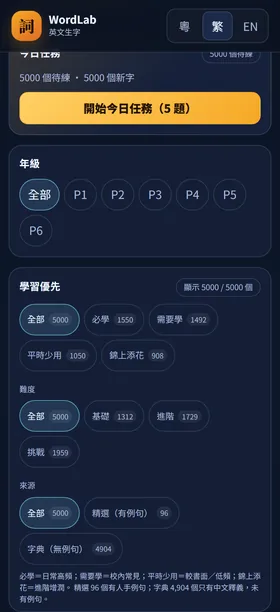
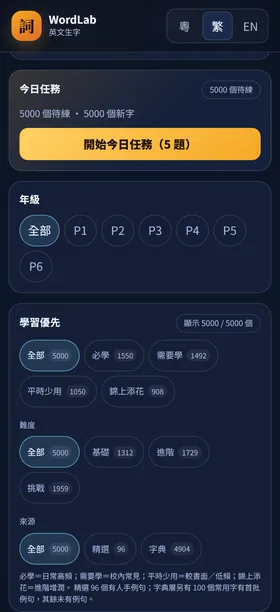
Update hub landing page

diff --git a/wordlab/examples-pack1.js b/wordlab/examples-pack1.js
@@ -1,0 +1,102 @@
+window.WORDLAB_EXAMPLES = {
+  "student": { "exEn": "The student reads a book.", "exZh": "這個學生正在看書。", "source": "WordLab" },
+  "country": { "exEn": "Japan is a country in Asia.", "exZh": "日本是亞洲的一個國家。", "source": "WordLab" },
+  "help": { "exEn": "I help my mother at home.", "exZh": "我在家幫媽媽。", "source": "WordLab" },
+  "talk": { "exEn": "We talk with our friends.", "exZh": "我們和朋友談話。", "source": "WordLab" },
+  "problem": { "exEn": "We can solve this problem together.", "exZh": "我們可以一起解決這個問題。", "source": "WordLab" },
+  "start": { "exEn": "We start class at nine.", "exZh": "我們九點開始上課。", "source": "WordLab" },
+  "hand": { "exEn": "Raise your hand to answer.", "exZh": "舉手回答。", "source": "WordLab" },
+  "place": { "exEn": "This is a quiet place to read.", "exZh": "這是一個安靜看書的地方。", "source": "WordLab" },
+  "week": { "exEn": "We have a test next week.", "exZh": "我們下星期有測驗。", "source": "WordLab" },
+  "company": { "exEn": "My father works for a company.", "exZh": "我爸爸在一間公司工作。", "source": "WordLab" },
+  "system": { "exEn": "The school has a computer system.", "exZh": "學校有一個電腦系統。", "source": "WordLab" },
+  "question": { "exEn": "May I ask a question?", "exZh": "我可以問一個問題嗎？", "source": "WordLab" },
+  "play": { "exEn": "The children play in the park.", "exZh": "孩子們在公園玩耍。", "source": "WordLab" },
+  "government": { "exEn": "The government builds public parks.", "exZh": "政府興建公共公園。", "source": "WordLab" },
+  "night": { "exEn": "The stars shine at night.", "exZh": "星星在晚上閃耀。", "source": "WordLab" },
+  "point": { "exEn": "This point is important.", "exZh": "這一點很重要。", "source": "WordLab" },
+  "home": { "exEn": "We go home after school.", "exZh": "我們放學後回家。", "source": "WordLab" },
+  "room": { "exEn": "My room is clean and bright.", "exZh": "我的房間又乾淨又明亮。", "source": "WordLab" },
+  "write": { "exEn": "Please write your name here.", "exZh": "請在這裡寫上你的名字。", "source": "WordLab" },
+  "money": { "exEn": "I save my money in a bank.", "exZh": "我把錢存在銀行。", "source": "WordLab" },
+  "story": { "exEn": "Grandpa tells us a story.", "exZh": "爺爺講故事給我們聽。", "source": "WordLab" },
+  "young": { "exEn": "The young boy is reading.", "exZh": "那個小男孩正在看書。", "source": "WordLab" },
+  "month": { "exEn": "We visit Grandma every month.", "exZh": "我們每個月都去探望奶奶。", "source": "WordLab" },
+  "eye": { "exEn": "She has something in her eye.", "exZh": "她的眼睛裡有東西。", "source": "WordLab" },
+  "job": { "exEn": "My mother has a new job.", "exZh": "我媽媽有一份新工作。", "source": "WordLab" },
+  "word": { "exEn": "I do not know this word.", "exZh": "我不認識這個詞。", "source": "WordLab" },
+  "business": { "exEn": "Her family runs a small business.", "exZh": "她的家人經營一間小生意。", "source": "WordLab" },
+  "side": { "exEn": "Walk on the left side of the road.", "exZh": "走在馬路的左邊。", "source": "WordLab" },
+  "head": { "exEn": "Put the hat on your head.", "exZh": "把帽子戴在頭上。", "source": "WordLab" },
+  "house": { "exEn": "Their house has a red roof.", "exZh": "他們的房子有一個紅色屋頂。", "source": "WordLab" },
+  "service": { "exEn": "The bus service is good.", "exZh": "巴士服務很好。", "source": "WordLab" },
+  "hour": { "exEn": "The lesson lasts one hour.", "exZh": "這堂課長一小時。", "source": "WordLab" },
+  "game": { "exEn": "We played a game after lunch.", "exZh": "我們午餐後玩了一個遊戲。", "source": "WordLab" },
+  "line": { "exEn": "Please stand in a line.", "exZh": "請排成一條隊。", "source": "WordLab" },
+  "car": { "exEn": "The car is parked outside.", "exZh": "車子停在外面。", "source": "WordLab" },
+  "city": { "exEn": "Hong Kong is a busy city.", "exZh": "香港是一個繁忙的城市。", "source": "WordLab" },
+  "community": { "exEn": "Our community is friendly.", "exZh": "我們的社區很友善。", "source": "WordLab" },
+  "name": { "exEn": "My name is Mei.", "exZh": "我的名字是美儀。", "source": "WordLab" },
+  "team": { "exEn": "Our team won the game.", "exZh": "我們的隊伍贏了比賽。", "source": "WordLab" },
+  "idea": { "exEn": "That is a good idea.", "exZh": "那是一個好主意。", "source": "WordLab" },
+  "body": { "exEn": "Exercise keeps your body strong.", "exZh": "運動令你的身體強壯。", "source": "WordLab" },
+  "information": { "exEn": "The teacher gives us information.", "exZh": "老師給我們資料。", "source": "WordLab" },
+  "watch": { "exEn": "We watch the birds in the park.", "exZh": "我們在公園看鳥。", "source": "WordLab" },
+  "parent": { "exEn": "A parent can help with homework.", "exZh": "家長可以幫忙做功課。", "source": "WordLab" },
+  "face": { "exEn": "Wash your face before bed.", "exZh": "睡前洗臉。", "source": "WordLab" },
+  "office": { "exEn": "The school office is on the first floor.", "exZh": "學校辦公室在一樓。", "source": "WordLab" },
+  "door": { "exEn": "Please close the door.", "exZh": "請關門。", "source": "WordLab" },
+  "health": { "exEn": "Good food is important for health.", "exZh": "好食物對健康很重要。", "source": "WordLab" },
+  "person": { "exEn": "Every person has a name.", "exZh": "每個人都有名字。", "source": "WordLab" },
+  "art": { "exEn": "We have an art lesson today.", "exZh": "我們今天有美術課。", "source": "WordLab" },
+  "history": { "exEn": "We learn about Hong Kong history.", "exZh": "我們學習香港歷史。", "source": "WordLab" },
+  "party": { "exEn": "We had a party for her birthday.", "exZh": "我們為她的生日開了派對。", "source": "WordLab" },
+  "morning": { "exEn": "I wake up early in the morning.", "exZh": "我早上很早就起床。", "source": "WordLab" },
+  "walk": { "exEn": "We walk to school together.", "exZh": "我們一起走路去學校。", "source": "WordLab" },
+  "reason": { "exEn": "There is a reason for the rule.", "exZh": "這條規則是有原因的。", "source": "WordLab" },
+  "food": { "exEn": "We need food and water.", "exZh": "我們需要食物和水。", "source": "WordLab" },
+  "air": { "exEn": "The air is fresh in the morning.", "exZh": "早上的空氣很清新。", "source": "WordLab" },
+  "education": { "exEn": "Education helps children learn.", "exZh": "教育幫助孩子學習。", "source": "WordLab" },
+  "foot": { "exEn": "My left foot hurts.", "exZh": "我的左腳很痛。", "source": "WordLab" },
+  "boy": { "exEn": "The boy is flying a kite.", "exZh": "那個男孩正在放風箏。", "source": "WordLab" },
+  "age": { "exEn": "Children of every age enjoy stories.", "exZh": "每個年齡的孩子都喜歡故事。", "source": "WordLab" },
+  "music": { "exEn": "We listen to music after dinner.", "exZh": "我們晚餐後聽音樂。", "source": "WordLab" },
+  "buy": { "exEn": "I want to buy an apple.", "exZh": "我想買一個蘋果。", "source": "WordLab" },
+  "wait": { "exEn": "Please wait for the bus.", "exZh": "請等巴士。", "source": "WordLab" },
+  "send": { "exEn": "I send a card to my friend.", "exZh": "我寄一張卡給朋友。", "source": "WordLab" },
+  "build": { "exEn": "They build a new library.", "exZh": "他們興建一間新圖書館。", "source": "WordLab" },
+  "stay": { "exEn": "Please stay at home today.", "exZh": "今天請留在家裡。", "source": "WordLab" },
+  "fall": { "exEn": "Leaves fall in autumn.", "exZh": "秋天樹葉會落下。", "source": "WordLab" },
+  "nation": { "exEn": "Every nation has its own flag.", "exZh": "每個國家都有自己的旗幟。", "source": "WordLab" },
+  "plan": { "exEn": "We plan to visit the museum.", "exZh": "我們計劃參觀博物館。", "source": "WordLab" },
+  "college": { "exEn": "My brother studies at college.", "exZh": "我哥哥在大學讀書。", "source": "WordLab" },
+  "interest": { "exEn": "She has an interest in space.", "exZh": "她對太空有興趣。", "source": "WordLab" },
+  "course": { "exEn": "This course teaches us about plants.", "exZh": "這個課程教我們認識植物。", "source": "WordLab" },
+  "class": { "exEn": "Our class has thirty students.", "exZh": "我們班有三十個學生。", "source": "WordLab" },
+  "control": { "exEn": "He lost control of the ball.", "exZh": "他失去了對球的控制。", "source": "WordLab" },
+  "care": { "exEn": "We should care for animals.", "exZh": "我們應該愛護動物。", "source": "WordLab" },
+  "field": { "exEn": "The children play in the field.", "exZh": "孩子們在田野玩耍。", "source": "WordLab" },
+  "report": { "exEn": "I wrote a report about pandas.", "exZh": "我寫了一篇關於熊貓的報告。", "source": "WordLab" },
+  "role": { "exEn": "Everyone has a role in the team.", "exZh": "每個人在隊伍中都有角色。", "source": "WordLab" },
+  "heart": { "exEn": "My heart beats fast after running.", "exZh": "跑步後我的心跳得很快。", "source": "WordLab" },
+  "light": { "exEn": "Turn on the light, please.", "exZh": "請開燈。", "source": "WordLab" },
+  "voice": { "exEn": "She has a soft voice.", "exZh": "她的聲音很溫柔。", "source": "WordLab" },
+  "wife": { "exEn": "His wife is a doctor.", "exZh": "他的妻子是一位醫生。", "source": "WordLab" },
+  "police": { "exEn": "The police help keep the city safe.", "exZh": "警察幫助保護城市安全。", "source": "WordLab" },
+  "mind": { "exEn": "Please make up your mind.", "exZh": "請你下決定。", "source": "WordLab" },
+  "price": { "exEn": "The price of the book is ten dollars.", "exZh": "這本書的價格是十元。", "source": "WordLab" },
+  "son": { "exEn": "Their son is in Primary One.", "exZh": "他們的兒子讀小一。", "source": "WordLab" },
+  "hope": { "exEn": "I hope you feel better soon.", "exZh": "希望你早日康復。", "source": "WordLab" },
+  "town": { "exEn": "Our town has a small library.", "exZh": "我們的小鎮有一間小圖書館。", "source": "WordLab" },
+  "road": { "exEn": "Be careful when you cross the road.", "exZh": "過馬路時要小心。", "source": "WordLab" },
+  "drive": { "exEn": "My father can drive a car.", "exZh": "我爸爸會開車。", "source": "WordLab" },
+  "arm": { "exEn": "She hurt her arm.", "exZh": "她弄傷了手臂。", "source": "WordLab" },
+  "break": { "exEn": "We take a break after class.", "exZh": "我們下課後休息。", "source": "WordLab" },
+  "value": { "exEn": "Kindness is an important value.", "exZh": "善良是一個重要的價值。", "source": "WordLab" },
+  "action": { "exEn": "We need action to help the planet.", "exZh": "我們需要行動來幫助地球。", "source": "WordLab" },
+  "model": { "exEn": "She made a model of a ship.", "exZh": "她做了一個船的模型。", "source": "WordLab" },
+  "season": { "exEn": "Winter is my favourite season.", "exZh": "冬天是我最喜歡的季節。", "source": "WordLab" },
+  "society": { "exEn": "We live in a busy society.", "exZh": "我們生活在繁忙的社會。", "source": "WordLab" },
+  "player": { "exEn": "He is a good football player.", "exZh": "他是一個好的足球員。", "source": "WordLab" },
+  "paper": { "exEn": "I draw on a sheet of paper.", "exZh": "我在一張紙上畫畫。", "source": "WordLab" }
+};

diff --git a/wordlab/app.js b/wordlab/app.js
@@ -13,6 +13,15 @@
   var DATA = (Array.isArray(window.WORDLAB_DATA) ? window.WORDLAB_DATA : []).concat(
     Array.isArray(window.WORDLAB_BULK) ? window.WORDLAB_BULK : []
   );
+  var EXTRA_EXAMPLES = window.WORDLAB_EXAMPLES || {};
+  DATA.forEach(function (w) {
+    var extra = EXTRA_EXAMPLES[String(w.en || '').toLowerCase()];
+    if (extra && !w.exEn && extra.exEn && extra.exZh) {
+      w.exEn = extra.exEn;
+      w.exZh = extra.exZh;
+      w.exampleSource = extra.source || 'WordLab';
+    }
+  });
   window.WORDLAB_ALL = DATA;
   var LANG_KEY = 'wordlab/lang';
   var SUBJECT_KEY = 'wordlab/subject';
@@ -65,11 +74,12 @@
     band3: ['挑戰', '挑戰', 'Challenge'],
     sourceTitle: ['來源', '來源', 'Source'],
     sourceAll: ['全部', '全部', 'All'],
-    sourceCurated: ['精選（有例句）', '精選（有例句）', 'Curated (with examples)'],
-    sourceDict: ['字典（無例句）', '字典（無例句）', 'Dictionary (no examples)'],
+    sourceCurated: ['精選', '精選', 'Curated'],
+    sourceDict: ['字典', '字典', 'Dictionary'],
     sourceCuratedBadge: ['精選', '精選', 'Curated'],
     sourceDictBadge: ['字典', '字典', 'Dictionary'],
-    sourceNote: ['精選 96 個有人手例句；字典 4,904 個只有中文釋義，未有例句。', '精選 96 個有人手例句；字典 4,904 個只有中文釋義，未有例句。', '96 curated entries have examples; 4,904 dictionary entries have Chinese glosses but no examples.'],
+    sourceNote: ['精選 96 個有人手例句；字典層另有 {n} 個常用字有首批例句，其餘未有例句。', '精選 96 個有人手例句；字典層另有 {n} 個常用字有首批例句，其餘未有例句。', '96 curated entries have examples; {n} other dictionary entries have Batch 1 examples; the rest do not.'],
+    exampleBadge: ['例句', '例句', 'Example'],
     resetFilters: ['清除篩選', '清除篩選', 'Clear filters'],
     noFiltered: ['呢個組合暫時冇生字；試下清除篩選。', '這個組合暫時沒有生字；試試清除篩選。', 'No words in this combination — try clearing the filters.'],
     progressTitle: ['我的進度', '我的進度', 'My progress'],
@@ -604,7 +614,8 @@
       sourceRow.appendChild(b);
     });
     filterPanel.appendChild(sourceRow);
-    filterPanel.appendChild(el('p', 'filter-note', t('needNote') + ' ' + t('sourceNote')));
+    var packedExamples = DATA.filter(function (w) { return w.source === 'ECDICT' && w.exEn && w.exZh; }).length;
+    filterPanel.appendChild(el('p', 'filter-note', t('needNote') + ' ' + t('sourceNote').replace('{n}', String(packedExamples))));
     app.appendChild(filterPanel);
 
     var prog = el('section', 'panel progress-panel');
@@ -794,6 +805,7 @@
         wordSource(w) === 'curated' ? t('sourceCuratedBadge') : t('sourceDictBadge')
       )
     );
+    if (w.exEn) meta.appendChild(el('span', 'badge example', t('exampleBadge')));
     if (isNew(w)) meta.appendChild(el('span', 'badge new', t('newBadge')));
     else if (isDue(w)) meta.appendChild(el('span', 'badge due', t('dueBadge')));
     else if (isKnown(w)) meta.appendChild(el('span', 'badge known', t('knownBadge')));
@@ -876,6 +888,7 @@
         wordSource(w) === 'curated' ? t('sourceCuratedBadge') : t('sourceDictBadge')
       )
     );
+    if (w.exEn) qmeta.appendChild(el('span', 'badge example', t('exampleBadge')));
     card.appendChild(qmeta);
 
     var options = el('div', 'options');

diff --git a/wordlab/sw.js b/wordlab/sw.js
@@ -2,13 +2,14 @@
  * Network-first：有網時攞最新，斷網時用快取；導航請求 fallback 去 index.html。
  * 只快取本站靜態檔，冇第三方。
  */
-const CACHE = 'wordlab-v7';
+const CACHE = 'wordlab-v8';
 const ASSETS = [
   './',
   './index.html',
   './style.css',
   './data.js',
   './bulk.js',
+  './examples-pack1.js',
   './app.js',
   './manifest.webmanifest',
 ];

diff --git a/wordlab/index.html b/wordlab/index.html
@@ -41,6 +41,7 @@
     <script src="../progress.js"></script>
     <script src="data.js"></script>
     <script src="bulk.js"></script>
+    <script src="examples-pack1.js"></script>
     <script src="app.js"></script>
     <script>
       if ('serviceWorker' in navigator) {

diff --git a/wordlab/style.css b/wordlab/style.css
@@ -442,6 +442,11 @@ a {
   color: #c4b5fd;
 }
 
+.badge.example {
+  color: var(--accent);
+  border-color: rgba(245, 158, 11, 0.4);
+}
+
 .badge.ipa {
   color: var(--muted);
   font-family: var(--serif);
